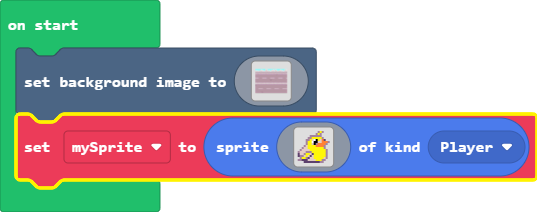
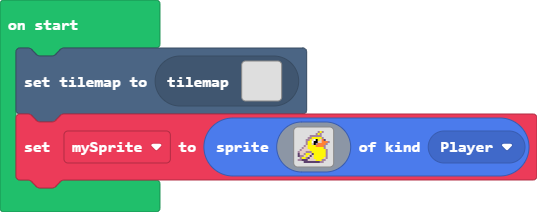
Update main.blocks, main.ts, tilemap.g.jres, tilemap.g.ts

Changed region(s): [[0.0, 0.1981, 1.0, 0.9057]]

diff --git a/tilemap.g.ts b/tilemap.g.ts
@@ -2,10 +2,39 @@
 namespace myTiles {
     //% fixedInstance jres blockIdentity=images._tile
     export const transparency16 = image.ofBuffer(hex``);
+    //% fixedInstance jres blockIdentity=images._tile
+    export const tile1 = image.ofBuffer(hex``);
+
+    helpers._registerFactory("tilemap", function(name: string) {
+        switch(helpers.stringTrim(name)) {
+            case "level1":
+            case "level1":return tiles.createTilemap(hex`1000100000000000000000000000000000000000000000000000000000000000000000000000000000000000000000000000000000000000000000000000000000000000000000000000000000000000000000000000000000000000000000000000000000000000000000000000000000000000000000000000000000000000000000000000000000000000000000000000000000000000000000000000000000000000000000000000000000000000000000000000000000000000000000000000000000000000000000000000000000000000000000000000000000000000000000000000000000000000000000000000000000000000000000000000000000000000`, img`
+. . . . . . . . . . . . . . . . 
+. . . . . . . . . . . . . . . . 
+. . . . . . . . . . . . . . . . 
+. . . . . . . . . . . . . . . . 
+. . . . . . . . . . . . . . . . 
+. . . . . . . . . . . . . . . . 
+. . . . . . . . . . . . . . . . 
+. . . . . . . . . . . . . . . . 
+. . . . . . . . . . . . . . . . 
+. . . . . . . . . . . . . . . . 
+. . . . . . . . . . . . . . . . 
+. . . . . . . . . . . . . . . . 
+. . . . . . . . . . . . . . . . 
+. . . . . . . . . . . . . . . . 
+. . . . . . . . . . . . . . . . 
+. . . . . . . . . . . . . . . . 
+`, [myTiles.transparency16,myTiles.tile1], TileScale.Sixteen);
+        }
+        return null;
+    })
 
     helpers._registerFactory("tile", function(name: string) {
         switch(helpers.stringTrim(name)) {
             case "transparency16":return transparency16;
+            case "myTile":
+            case "tile1":return tile1;
         }
         return null;
     })

diff --git a/main.ts b/main.ts
@@ -1,4 +1,4 @@
-scene.setBackgroundImage(assets.image`myImage`)
+tiles.setCurrentTilemap(tilemap`level1`)
 let mySprite = sprites.create(img`
     . . . . . . . . . . b 5 b . . . 
     . . . . . . . . . b 5 b . . . . 
